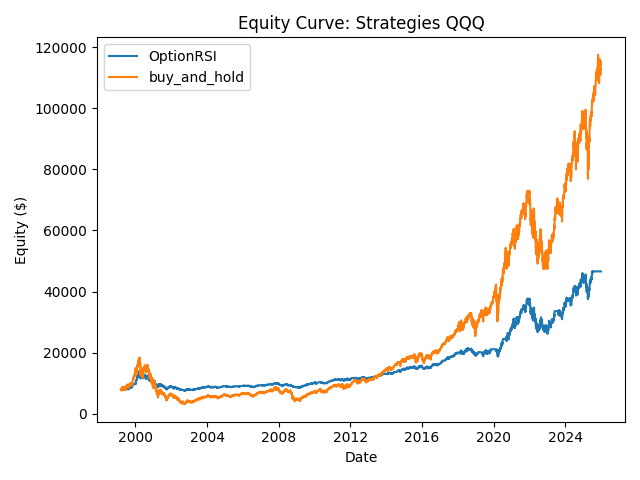
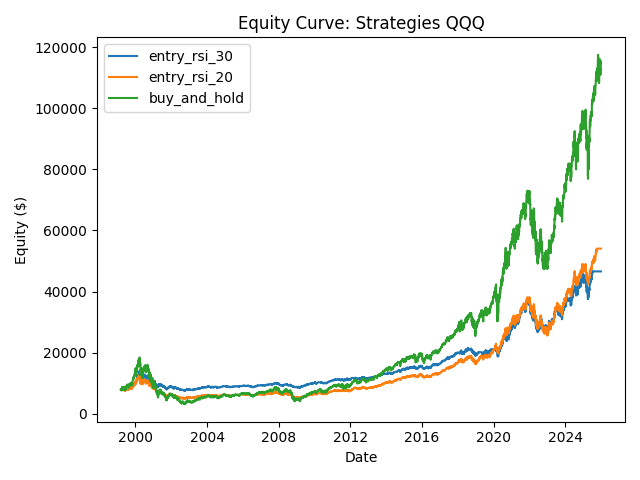
multiple entry exit support
maxdrawdown pull out to Portfolio.py
tcp.py: iterate over entry exit data frame

diff --git a/btcp.py b/btcp.py
@@ -32,7 +32,7 @@ import matplotlib.pyplot as plt
 
 from black_scholes import BlackScholesModel
 from criteria import EntryExit
-from buy_and_hold import calculate_buy_and_hold
+from buy_and_hold import BuyAndHold
 from option_rsi import OptionRSI
 from Portfolio import Position
 
@@ -176,7 +176,7 @@ def pick_expiry(entry: pd.Timestamp,
 
 def backtest(
     bs_model: BlackScholesModel,
-    entryExit: EntryExit,
+    entryExit_df:pd.DataFrame,
     symbol: str = STOCK_SYMBOL,
     start: str = START_DATE,
     end: str = END_DATE,
@@ -232,7 +232,9 @@ def backtest(
             return float(row["hv"])
         raise ValueError(f"Unknown vol_source: {vol_source}")
 
-    entryExit.portfolio.cash = starting_cash
+    for row in entryExit_df.itertuples():
+        entryExit = row.entryExit
+        entryExit.portfolio.cash = starting_cash
 
     end_ts = pd.Timestamp(end)
 
@@ -243,95 +245,100 @@ def backtest(
         rsi = row["rsi14"]
         sigma = choose_sigma(row)
 
-        # Mark-to-market
-        if entryExit.portfolio.pos is not None:
-            T = max((entryExit.portfolio.pos.expiry - d).days / 365.0, 1 / 365.0)
-            px, _ = bs_model.bs_call_price_delta(S, entryExit.portfolio.pos.K, T, r, q, sigma)
-            pos_value = px * 100 * entryExit.portfolio.pos.contracts
-            equity = entryExit.portfolio.cash + pos_value
+        for row in entryExit_df.itertuples():
+            entryExit = row.entryExit
+            # Mark-to-market
+            if entryExit.portfolio.pos is not None:
+                T = max((entryExit.portfolio.pos.expiry - d).days / 365.0, 1 / 365.0)
+                px, _ = bs_model.bs_call_price_delta(S, entryExit.portfolio.pos.K, T, r, q, sigma)
+                pos_value = px * 100 * entryExit.portfolio.pos.contracts
+                equity = entryExit.portfolio.cash + pos_value
 
-            holding = (d - entryExit.portfolio.pos.entry_date).days
-            hit_profit, exit_true = entryExit.check_exit_conditions(holding, px, entryExit.portfolio.pos.target_price)
-            if exit_true:
-                entryExit.portfolio.cash += pos_value
-                entryExit.portfolio.cash -= commission_per_contract * entryExit.portfolio.pos.contracts
+                holding = (d - entryExit.portfolio.pos.entry_date).days
+                hit_profit, exit_true = entryExit.check_exit_conditions(holding, px, entryExit.portfolio.pos.target_price)
+                if exit_true:
+                    entryExit.portfolio.cash += pos_value
+                    entryExit.portfolio.cash -= commission_per_contract * entryExit.portfolio.pos.contracts
 
-                entryExit.portfolio.trades.append({
-                    "entry_date": entryExit.portfolio.pos.entry_date.date(),
-                    "exit_date": d.date(),
-                    "expiry": entryExit.portfolio.pos.expiry.date(),
-                    "K": entryExit.portfolio.pos.K,
-                    "contracts": entryExit.portfolio.pos.contracts,
-                    "entry_price": entryExit.portfolio.pos.entry_price,
-                    "exit_price": px,
-                    "holding_days": holding,
-                    "reason": "profit_target" if hit_profit else "time_exit",
-                    "pnl_$": pos_value - entryExit.portfolio.pos.cost_basis,
-                    "return_%": (px - entryExit.portfolio.pos.entry_price) / entryExit.portfolio.pos.entry_price * 100.0,
-                })
+                    entryExit.portfolio.trades.append({
+                        "entry_date": entryExit.portfolio.pos.entry_date.date(),
+                        "exit_date": d.date(),
+                        "expiry": entryExit.portfolio.pos.expiry.date(),
+                        "K": entryExit.portfolio.pos.K,
+                        "contracts": entryExit.portfolio.pos.contracts,
+                        "entry_price": entryExit.portfolio.pos.entry_price,
+                        "exit_price": px,
+                        "holding_days": holding,
+                        "reason": "profit_target" if hit_profit else "time_exit",
+                        "pnl_$": pos_value - entryExit.portfolio.pos.cost_basis,
+                        "return_%": (px - entryExit.portfolio.pos.entry_price) / entryExit.portfolio.pos.entry_price * 100.0,
+                    })
 
-                entryExit.portfolio.pos = None
+                    entryExit.portfolio.pos = None
+                    equity = entryExit.portfolio.cash
+
+            else:
                 equity = entryExit.portfolio.cash
 
-        else:
-            equity = entryExit.portfolio.cash
+            entryExit.portfolio.equity_curve.append({"Date": d, "Equity": equity})
 
-        entryExit.portfolio.equity_curve.append({"Date": d, "Equity": equity})
-
-        # Entries
-        if entryExit.portfolio.pos is None:
-            if not entryExit.check_entry_conditions(d, end_ts, rsi, sigma):
-                continue
-
-            expiry = pick_expiry(d, idx, mode=expiry_mode, min_days_out=365)
-            if expiry <= d:
-                continue
-
-            T0 = (expiry - d).days / 365.0
-            K = bs_model.strike_for_delta_call(S, target_delta, T0, r, q, sigma, strike_round=strike_round)
-            entry_px, _ = bs_model.bs_call_price_delta(S, K, T0, r, q, sigma)
-            if not (math.isfinite(entry_px) and entry_px > 0):
-                continue
-
-            alloc = equity * position_size_pct
-            contracts = int(alloc // (entry_px * 100))
-            if contracts < 1:
-                contracts = 1 if entryExit.portfolio.cash >= entry_px * 100 else 0
-            if contracts == 0:
-                continue
-
-            cost = entry_px * 100 * contracts + commission_per_contract * contracts
-            if cost > entryExit.portfolio.cash:
-                contracts = int(entryExit.portfolio.cash // (entry_px * 100))
-                if contracts < 1:
+            # Entries
+            if entryExit.portfolio.pos is None:
+                if not entryExit.check_entry_conditions(d, end_ts, rsi, sigma):
                     continue
+
+                expiry = pick_expiry(d, idx, mode=expiry_mode, min_days_out=365)
+                if expiry <= d:
+                    continue
+
+                T0 = (expiry - d).days / 365.0
+                K = bs_model.strike_for_delta_call(S, target_delta, T0, r, q, sigma, strike_round=strike_round)
+                entry_px, _ = bs_model.bs_call_price_delta(S, K, T0, r, q, sigma)
+                if not (math.isfinite(entry_px) and entry_px > 0):
+                    continue
+
+                alloc = equity * position_size_pct
+                contracts = int(alloc // (entry_px * 100))
+                if contracts < 1:
+                    contracts = 1 if entryExit.portfolio.cash >= entry_px * 100 else 0
+                if contracts == 0:
+                    continue
+
                 cost = entry_px * 100 * contracts + commission_per_contract * contracts
                 if cost > entryExit.portfolio.cash:
-                    continue
+                    contracts = int(entryExit.portfolio.cash // (entry_px * 100))
+                    if contracts < 1:
+                        continue
+                    cost = entry_px * 100 * contracts + commission_per_contract * contracts
+                    if cost > entryExit.portfolio.cash:
+                        continue
 
-            entryExit.portfolio.cash -= cost
-            entryExit.portfolio.pos = Position(
-                entry_date=d,
-                expiry=expiry,
-                K=float(K),
-                contracts=int(contracts),
-                entry_price=float(entry_px),
-                target_price=float(entry_px) * (1 + profit_take),
-                cost_basis=float(cost),
-            )
-    losses, profit_factor, win_rate, wins = trade_stats(entryExit.portfolio.trades)
+                entryExit.portfolio.cash -= cost
+                entryExit.portfolio.pos = Position(
+                    entry_date=d,
+                    expiry=expiry,
+                    K=float(K),
+                    contracts=int(contracts),
+                    entry_price=float(entry_px),
+                    target_price=float(entry_px) * (1 + profit_take),
+                    cost_basis=float(cost),
+                )
 
     stratDf = pd.DataFrame(columns=["name", "end_eq", "cagr", "mdd", "sharpe", "losses", "profit_factor", "win_rate", "wins", "trades"])
     plotDf = pd.DataFrame(columns=["name", "index", "values"])
-    eq = pd.DataFrame(entryExit.portfolio.equity_curve).set_index("Date")
-    rf_daily = data["r"].reindex(eq.index).ffill() / 252.0
+    for row in entryExit_df.itertuples():
+        entryExit = row.entryExit
+        eq = pd.DataFrame(entryExit.portfolio.equity_curve).set_index("Date")
+        rf_daily = data["r"].reindex(eq.index).ffill() / 252.0
 
-    _, _, end_eq, cagr, mdd, sharpe = OptionRSI.calculate_metrics(eq, rf_daily)
-    stratDf.loc[len(stratDf)] = ["OptionRSI", end_eq, cagr*100, mdd*100, sharpe, losses, profit_factor, win_rate*100, wins, len(entryExit.portfolio.trades)]
-    plotDf.loc[len(plotDf)] = ["OptionRSI", eq.index, eq["Equity"]]
+        losses, profit_factor, win_rate, wins = trade_stats(entryExit.portfolio.trades)
+        end_eq, cagr, mdd, sharpe = OptionRSI.calculate_metrics(eq, rf_daily)
+        stratDf.loc[len(stratDf)] = [entryExit.name, end_eq, cagr*100, mdd*100, sharpe, losses, profit_factor, win_rate*100, wins, len(entryExit.portfolio.trades)]
+        plotDf.loc[len(plotDf)] = [entryExit.name, eq.index, eq["Equity"]]
 
     # Buy-and-hold underlying QQQ comparison (uses fractional shares for simplicity)
-    buy_and_hold, bh_end, bh_cagr, bh_mdd, bh_sharpe = calculate_buy_and_hold(data, starting_cash, rf_daily)
+    bah = BuyAndHold(starting_cash=starting_cash)
+    buy_and_hold, bh_end, bh_cagr, bh_mdd, bh_sharpe = bah.calculate_metrics(data, rf_daily)
     stratDf.loc[len(stratDf)] = ["buy_and_hold", bh_end, bh_cagr*100, bh_mdd*100, bh_sharpe, 0, float("nan"), float("nan"), 0, 0]
     plotDf.loc[len(plotDf)] = ["buy_and_hold", buy_and_hold.index, buy_and_hold.values]
 
@@ -357,17 +364,17 @@ def trade_stats(trades):
 
 def main():
     # Change these if you want:
-    entryExit = EntryExit()
-    entryExit.setRsiHoldProfit(
-        entry_rsi_low=30.0,
-        entry_rsi_high=50.0,
-        hold_days=180,
-        profit_take=0.50,
-    )
+    entryExit = EntryExit("entry_rsi_30")
+    entryExit.setRsiHoldProfit(entry_rsi_low=30.0, entry_rsi_high=50.0, hold_days=180, profit_take=0.50)
+    entryExit1 = EntryExit("entry_rsi_20")
+    entryExit1.setRsiHoldProfit(entry_rsi_low=20.0, entry_rsi_high=70.0, hold_days=180, profit_take=0.50)
+    entryExit_df = pd.DataFrame(columns=["entryExit"])
+    entryExit_df.loc[len(entryExit_df)] = [entryExit]
+    entryExit_df.loc[len(entryExit_df)] = [entryExit1]
 
     stratDf, plotDf = backtest(
         bs_model=BlackScholesModel(q=0.00),
-        entryExit=entryExit,
+        entryExit_df=entryExit_df,
         symbol= STOCK_SYMBOL,
         start=START_DATE,
         end=END_DATE,
@@ -379,7 +386,7 @@ def main():
     )
 
     print_summary(stratDf)
-    # showTrades(entryExit.trades)
+    # showTrades(entryExit.trades) ## TODO
     plot_plotdf(plotDf, title="Equity Curve: Strategies QQQ", xlablel="Date", ylabel="Equity ($)")
 
 def plot_plotdf(plotDf, title, xlablel, ylabel):

diff --git a/buy_and_hold.py b/buy_and_hold.py
@@ -1,39 +1,37 @@
 import pandas as pd
 from math import sqrt
+from Portfolio import Portfolio,max_drawdown
 
+class BuyAndHold:
+    def __init__(self, starting_cash: float):
+        self.starting_cash = starting_cash
 
-def max_drawdown(equity: pd.Series) -> float:
-    peak = equity.cummax()
-    dd = equity / peak - 1.0
-    return float(dd.min())
+    # Buy-and-hold underlying QQQ comparison (uses fractional shares for simplicity)
+    def calculate_metrics(self, data: pd.DataFrame, rf_daily: pd.Series) -> dict:
+        close_on_eq_index = data["Close"].reindex(rf_daily.index).ffill()
+        first_close = close_on_eq_index.iloc[0] if len(close_on_eq_index) > 0 else float("nan")
 
+        if pd.notna(first_close) and first_close > 0:
+            bh_shares = float(self.starting_cash) / float(first_close)
+            buy_and_hold = close_on_eq_index * bh_shares
+        else:
+            buy_and_hold = pd.Series(0.0, index=rf_daily.index, name="BuyAndHold")
 
-# Buy-and-hold underlying QQQ comparison (uses fractional shares for simplicity)
-def calculate_buy_and_hold(data: pd.DataFrame, starting_cash: float, rf_daily: pd.Series) -> dict:
-    close_on_eq_index = data["Close"].reindex(rf_daily.index).ffill()
-    first_close = close_on_eq_index.iloc[0] if len(close_on_eq_index) > 0 else float("nan")
+        if len(buy_and_hold) > 0 and buy_and_hold.dropna().sum() > 0:
+            bh_start = float(buy_and_hold.iloc[0])
+            bh_end = float(buy_and_hold.iloc[-1])
+            years = (buy_and_hold.index[-1] - buy_and_hold.index[0]).days / 365.25
+            bh_cagr = (bh_end / bh_start) ** (1 / years) - 1 if years > 0 else float("nan")
+            bh_mdd = max_drawdown(buy_and_hold)
+            bh_daily_ret = buy_and_hold.pct_change()
+            bh_daily_excess = (bh_daily_ret.reindex(rf_daily.index) - rf_daily).dropna()
+            bh_sharpe = float(bh_daily_excess.mean() / bh_daily_excess.std() * sqrt(252)) if len(
+                bh_daily_excess) > 1 and bh_daily_excess.std() > 0 else float("nan")
+        else:
+            bh_end = float("nan")
+            bh_cagr = float("nan")
+            bh_mdd = float("nan")
+            bh_sharpe = float("nan")
 
-    if pd.notna(first_close) and first_close > 0:
-        bh_shares = float(starting_cash) / float(first_close)
-        buy_and_hold = close_on_eq_index * bh_shares
-    else:
-        buy_and_hold = pd.Series(0.0, index=rf_daily.index, name="BuyAndHold")
-
-    if len(buy_and_hold) > 0 and buy_and_hold.dropna().sum() > 0:
-        bh_start = float(buy_and_hold.iloc[0])
-        bh_end = float(buy_and_hold.iloc[-1])
-        years = (buy_and_hold.index[-1] - buy_and_hold.index[0]).days / 365.25
-        bh_cagr = (bh_end / bh_start) ** (1 / years) - 1 if years > 0 else float("nan")
-        bh_mdd = max_drawdown(buy_and_hold)
-        bh_daily_ret = buy_and_hold.pct_change()
-        bh_daily_excess = (bh_daily_ret.reindex(rf_daily.index) - rf_daily).dropna()
-        bh_sharpe = float(bh_daily_excess.mean() / bh_daily_excess.std() * sqrt(252)) if len(
-            bh_daily_excess) > 1 and bh_daily_excess.std() > 0 else float("nan")
-    else:
-        bh_end = float("nan")
-        bh_cagr = float("nan")
-        bh_mdd = float("nan")
-        bh_sharpe = float("nan")
-
-    return buy_and_hold, bh_end, bh_cagr, bh_mdd, bh_sharpe
+        return buy_and_hold, bh_end, bh_cagr, bh_mdd, bh_sharpe
 

diff --git a/option_rsi.py b/option_rsi.py
@@ -1,11 +1,7 @@
 import pandas as pd
 from math import sqrt
 from typing import Tuple
-
-def max_drawdown(equity: pd.Series) -> float:
-    peak = equity.cummax()
-    dd = equity / peak - 1.0
-    return float(dd.min())
+from Portfolio import max_drawdown
 
 class OptionRSI:
     @staticmethod
@@ -35,4 +31,4 @@ class OptionRSI:
         daily_excess = (daily_ret - rf_daily).dropna()
         sharpe = float(daily_excess.mean() / daily_excess.std() * sqrt(252)) if len(daily_excess) > 1 and daily_excess.std() > 0 else float("nan")
 
-        return equity, start_eq, end_eq, cagr, mdd, sharpe
+        return end_eq, cagr, mdd, sharpe

diff --git a/criteria.py b/criteria.py
@@ -3,7 +3,8 @@ import pandas as pd
 from Portfolio import Portfolio, Position
 
 class EntryExit:
-    def __init__(self):
+    def __init__(self, name):
+        self.name = name
         self.entry_rsi_low: float = 30.0
         self.entry_rsi_high: float = 50.0
         self.hold_days: int = 180

diff --git a/Portfolio.py b/Portfolio.py
@@ -19,3 +19,8 @@ class Portfolio:
     pos: Optional[Position]
     trades: List[Dict[str, object]]
     equity_curve: List[Dict[str, object]]
+
+def max_drawdown(equity: pd.Series) -> float:
+    peak = equity.cummax()
+    dd = equity / peak - 1.0
+    return float(dd.min())
